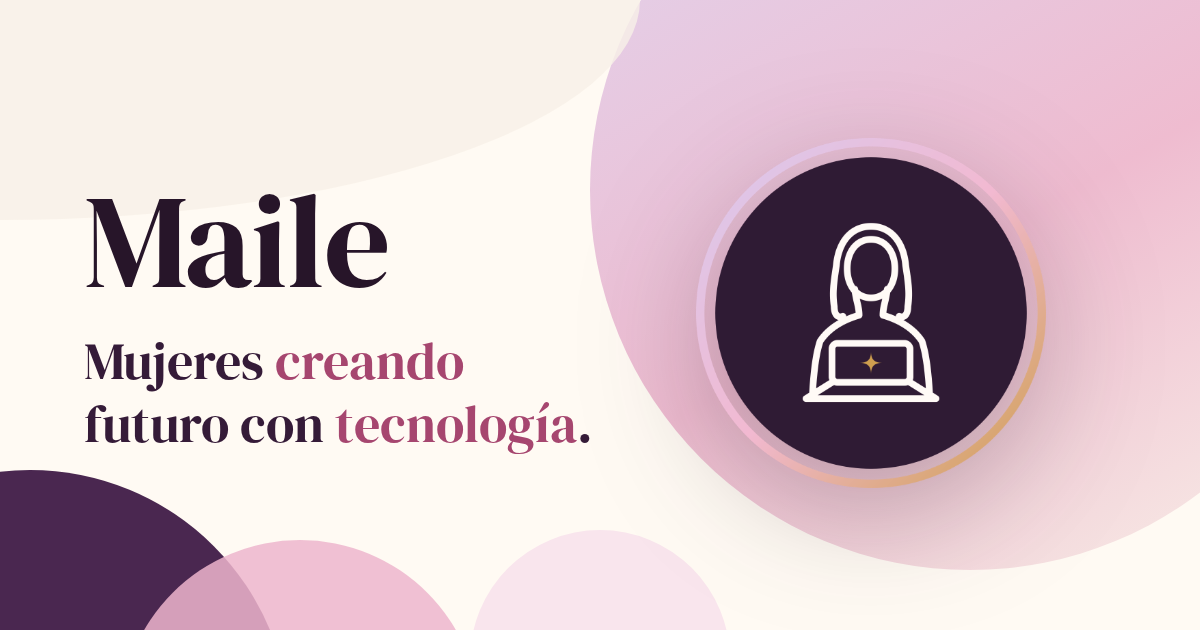
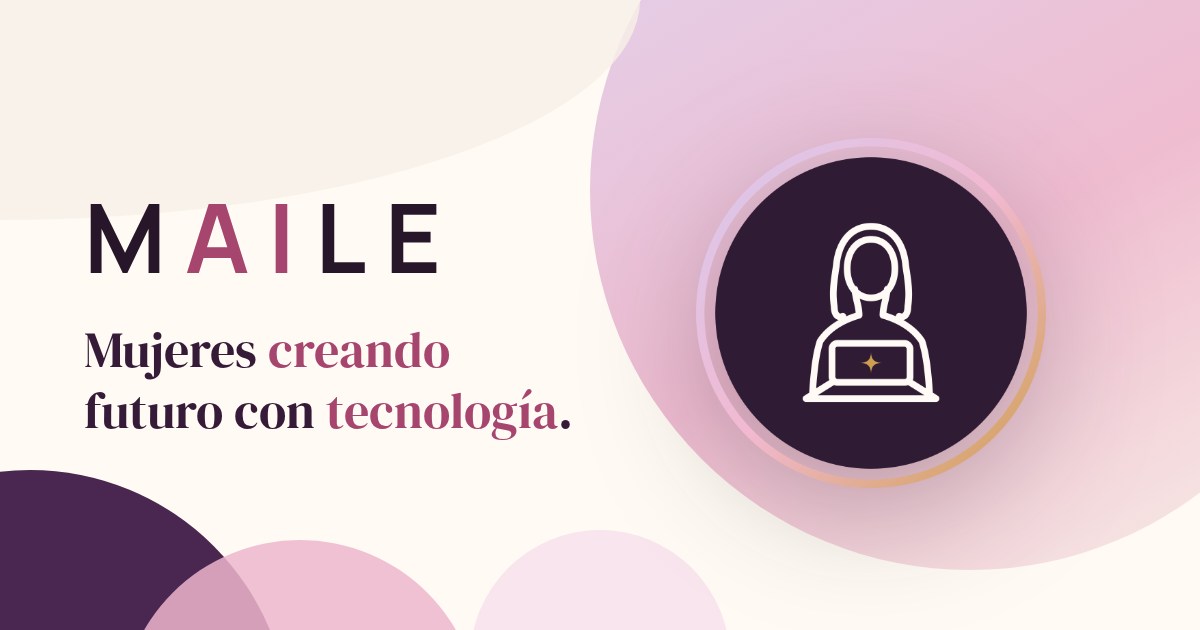
Escribe el nombre como MAILE y parte el logotipo en M-AI-LE
El nombre de la marca es MAILE, en versales, no "Maile". Va así en las seis
páginas: título, metadatos, `aria-label` del logo, encabezado, pie y la tarjeta
social, que se rehizo.

El logotipo además parte el nombre en dos colores, porque el nombre lleva "AI"
adentro y el logo horizontal de la marca lo destaca. El realce sale de
`brand.nameHighlight` en `config.js`, así que es contenido y no una regla escrita
a mano: `script.js` envuelve esa parte en un `span` y `styles.css` le da color.
Solo aplica dentro del logotipo; en el texto corrido del pie el nombre va de una
sola pieza, que es como se lee una firma de copyright.

El logotipo pasa a palo seco muy espaciado, siguiendo el logo horizontal, y pierde
el punto final: el logo de la marca no lo tiene. La serif queda para los títulos.

Claude-Session: https://claude.ai/code/session_014qsDDTwCz9fSikQ2U92sJf

Changed region(s): [[0.0617, 0.5127, 0.4933, 0.7238], [0.0617, 0.3016, 0.37, 0.4524]]

diff --git a/programa-agente-ia.html b/programa-agente-ia.html
@@ -3,12 +3,12 @@
 <head>
   <meta charset="utf-8">
   <meta name="viewport" content="width=device-width, initial-scale=1">
-  <title>Crea tu primer agente con IA | Maile</title>
+  <title>Crea tu primer agente con IA | MAILE</title>
   <meta name="description" content="Taller presencial de 5 horas para mujeres emprendedoras: descubre la necesidad de tu negocio y crea tu primer agente de inteligencia artificial, listo para usar e iterar.">
   <meta name="theme-color" content="#351b38">
   <meta property="og:type" content="website">
   <meta property="og:locale" content="es_CL">
-  <meta property="og:title" content="Crea tu primer agente con IA · El mejor aliado para tu negocio | Maile">
+  <meta property="og:title" content="Crea tu primer agente con IA · El mejor aliado para tu negocio | MAILE">
   <meta property="og:description" content="Taller presencial · 5 horas · Nivel inicial · Resultado: tu primer agente de IA, listo e iterable.">
   <meta property="og:url" content="https://www.maile.cl/programa-agente-ia.html">
   <meta property="og:image" content="https://www.maile.cl/assets/og-social.png">
@@ -27,7 +27,7 @@
   <a class="skip-link" href="#contenido">Saltar al contenido</a>
   <header class="site-header">
     <div class="container nav-shell">
-      <a class="wordmark" href="index.html" aria-label="Maile, ir al inicio"><img class="brand-mark" src="assets/brand/maile-avatar.png" alt="" width="40" height="40" data-brand-mark><span data-brand>Maile<span>.</span></span></a>
+      <a class="wordmark" href="index.html" aria-label="MAILE, ir al inicio"><img class="brand-mark" src="assets/brand/maile-avatar.png" alt="" width="40" height="40" data-brand-mark><span data-brand>M<span class="ai">AI</span>LE</span></a>
       <nav class="desktop-nav" aria-label="Navegación principal"><a href="index.html#programas">Programas</a><a href="index.html#encuentros">Encuentros</a><a href="index.html#proposito">Nosotras</a></nav>
       <div class="nav-actions"><a class="btn btn-primary" href="index.html#contacto">Quiero participar</a><button class="menu-toggle" type="button" aria-expanded="false" aria-controls="mobile-navigation" aria-label="Abrir menú"><span></span></button></div>
     </div>
@@ -128,7 +128,7 @@
     </section>
   </main>
 
-  <footer class="site-footer"><div class="container"><div class="footer-grid"><div class="footer-brand"><a class="wordmark" href="index.html" aria-label="Maile, ir al inicio"><img class="brand-mark" src="assets/brand/maile-avatar.png" alt="" width="40" height="40" data-brand-mark><span data-brand>Maile<span>.</span></span></a><p data-descriptor>Mujeres creando futuro con tecnología.</p></div><div><p class="footer-title">Explora</p><nav class="footer-links"><a href="index.html#proposito">Nosotras</a><a href="index.html#programas">Programas</a><a href="index.html#encuentros">Encuentros</a><a href="index.html#impacto">Impacto</a><a href="index.html#comunidad">Comunidad</a></nav></div><div><p class="footer-title">Participa</p><nav class="footer-links"><a href="index.html#contacto">Quiero participar</a><a href="index.html#red">Profesoras y mentoras</a><a href="organizaciones.html">Para organizaciones</a><a data-email href="mailto:contacto@nombre.cl">contacto@nombre.cl</a></nav></div><div><p class="footer-title">Información</p><nav class="footer-links"><a data-privacy href="privacidad.html">Política de privacidad</a><a data-terms href="terminos.html">Términos</a><span data-socials></span></nav></div></div><div class="footer-bottom"><span>© <span data-year></span> <span data-brand>Maile</span>. Derechos reservados.</span><span>Mujeres creando futuro con tecnología.</span></div></div></footer>
+  <footer class="site-footer"><div class="container"><div class="footer-grid"><div class="footer-brand"><a class="wordmark" href="index.html" aria-label="MAILE, ir al inicio"><img class="brand-mark" src="assets/brand/maile-avatar.png" alt="" width="40" height="40" data-brand-mark><span data-brand>M<span class="ai">AI</span>LE</span></a><p data-descriptor>Mujeres creando futuro con tecnología.</p></div><div><p class="footer-title">Explora</p><nav class="footer-links"><a href="index.html#proposito">Nosotras</a><a href="index.html#programas">Programas</a><a href="index.html#encuentros">Encuentros</a><a href="index.html#impacto">Impacto</a><a href="index.html#comunidad">Comunidad</a></nav></div><div><p class="footer-title">Participa</p><nav class="footer-links"><a href="index.html#contacto">Quiero participar</a><a href="index.html#red">Profesoras y mentoras</a><a href="organizaciones.html">Para organizaciones</a><a data-email href="mailto:contacto@nombre.cl">contacto@nombre.cl</a></nav></div><div><p class="footer-title">Información</p><nav class="footer-links"><a data-privacy href="privacidad.html">Política de privacidad</a><a data-terms href="terminos.html">Términos</a><span data-socials></span></nav></div></div><div class="footer-bottom"><span>© <span data-year></span> <span data-brand>MAILE</span>. Derechos reservados.</span><span>Mujeres creando futuro con tecnología.</span></div></div></footer>
   <script src="config.js"></script>
   <script src="script.js"></script>
   <script src="program.js"></script>

diff --git a/programa-web-ia.html b/programa-web-ia.html
@@ -3,12 +3,12 @@
 <head>
   <meta charset="utf-8">
   <meta name="viewport" content="width=device-width, initial-scale=1">
-  <title>Crea tu primera página web con IA | Maile</title>
+  <title>Crea tu primera página web con IA | MAILE</title>
   <meta name="description" content="Programa práctico presencial de nivel inicial para transformar una idea en una página web funcional con inteligencia artificial y acompañamiento paso a paso.">
   <meta name="theme-color" content="#351b38">
   <meta property="og:type" content="website">
   <meta property="og:locale" content="es_CL">
-  <meta property="og:title" content="Crea tu primera página web con IA | Maile">
+  <meta property="og:title" content="Crea tu primera página web con IA | MAILE">
   <meta property="og:description" content="Programa práctico presencial · Nivel inicial · Resultado: sitio publicado.">
   <meta property="og:url" content="https://www.maile.cl/programa-web-ia.html">
   <meta property="og:image" content="https://www.maile.cl/assets/og-social.png">
@@ -27,7 +27,7 @@
   <a class="skip-link" href="#contenido">Saltar al contenido</a>
   <header class="site-header">
     <div class="container nav-shell">
-      <a class="wordmark" href="index.html" aria-label="Maile, ir al inicio"><img class="brand-mark" src="assets/brand/maile-avatar.png" alt="" width="40" height="40" data-brand-mark><span data-brand>Maile<span>.</span></span></a>
+      <a class="wordmark" href="index.html" aria-label="MAILE, ir al inicio"><img class="brand-mark" src="assets/brand/maile-avatar.png" alt="" width="40" height="40" data-brand-mark><span data-brand>M<span class="ai">AI</span>LE</span></a>
       <nav class="desktop-nav" aria-label="Navegación principal"><a href="index.html#programas">Programas</a><a href="index.html#encuentros">Encuentros</a><a href="index.html#proposito">Nosotras</a></nav>
       <div class="nav-actions"><a class="btn btn-primary" href="index.html#contacto">Quiero participar</a><button class="menu-toggle" type="button" aria-expanded="false" aria-controls="mobile-navigation" aria-label="Abrir menú"><span></span></button></div>
     </div>
@@ -70,7 +70,7 @@
     </section>
   </main>
 
-  <footer class="site-footer"><div class="container"><div class="footer-grid"><div class="footer-brand"><a class="wordmark" href="index.html" aria-label="Maile, ir al inicio"><img class="brand-mark" src="assets/brand/maile-avatar.png" alt="" width="40" height="40" data-brand-mark><span data-brand>Maile<span>.</span></span></a><p data-descriptor>Mujeres creando futuro con tecnología.</p></div><div><p class="footer-title">Explora</p><nav class="footer-links"><a href="index.html#proposito">Nosotras</a><a href="index.html#programas">Programas</a><a href="index.html#encuentros">Encuentros</a><a href="index.html#impacto">Impacto</a><a href="index.html#comunidad">Comunidad</a></nav></div><div><p class="footer-title">Participa</p><nav class="footer-links"><a href="index.html#contacto">Quiero participar</a><a href="index.html#red">Profesoras y mentoras</a><a href="organizaciones.html">Para organizaciones</a><a data-email href="mailto:contacto@nombre.cl">contacto@nombre.cl</a></nav></div><div><p class="footer-title">Información</p><nav class="footer-links"><a data-privacy href="privacidad.html">Política de privacidad</a><a data-terms href="terminos.html">Términos</a><span data-socials></span></nav></div></div><div class="footer-bottom"><span>© <span data-year></span> <span data-brand>Maile</span>. Derechos reservados.</span><span>Mujeres creando futuro con tecnología.</span></div></div></footer>
+  <footer class="site-footer"><div class="container"><div class="footer-grid"><div class="footer-brand"><a class="wordmark" href="index.html" aria-label="MAILE, ir al inicio"><img class="brand-mark" src="assets/brand/maile-avatar.png" alt="" width="40" height="40" data-brand-mark><span data-brand>M<span class="ai">AI</span>LE</span></a><p data-descriptor>Mujeres creando futuro con tecnología.</p></div><div><p class="footer-title">Explora</p><nav class="footer-links"><a href="index.html#proposito">Nosotras</a><a href="index.html#programas">Programas</a><a href="index.html#encuentros">Encuentros</a><a href="index.html#impacto">Impacto</a><a href="index.html#comunidad">Comunidad</a></nav></div><div><p class="footer-title">Participa</p><nav class="footer-links"><a href="index.html#contacto">Quiero participar</a><a href="index.html#red">Profesoras y mentoras</a><a href="organizaciones.html">Para organizaciones</a><a data-email href="mailto:contacto@nombre.cl">contacto@nombre.cl</a></nav></div><div><p class="footer-title">Información</p><nav class="footer-links"><a data-privacy href="privacidad.html">Política de privacidad</a><a data-terms href="terminos.html">Términos</a><span data-socials></span></nav></div></div><div class="footer-bottom"><span>© <span data-year></span> <span data-brand>MAILE</span>. Derechos reservados.</span><span>Mujeres creando futuro con tecnología.</span></div></div></footer>
   <script src="config.js"></script>
   <script src="script.js"></script>
   <script src="program.js"></script>

diff --git a/organizaciones.html b/organizaciones.html
@@ -3,12 +3,12 @@
 <head>
   <meta charset="utf-8">
   <meta name="viewport" content="width=device-width, initial-scale=1">
-  <title>Para organizaciones | Maile</title>
+  <title>Para organizaciones | MAILE</title>
   <meta name="description" content="Programas de formación tecnológica para mujeres, listos para adaptar, implementar y medir en fundaciones, empresas, municipios, instituciones educativas y territorios.">
   <meta name="theme-color" content="#351b38">
   <meta property="og:type" content="website">
   <meta property="og:locale" content="es_CL">
-  <meta property="og:title" content="Para organizaciones | Maile">
+  <meta property="og:title" content="Para organizaciones | MAILE">
   <meta property="og:description" content="Diseñamos, implementamos y medimos programas de tecnología para mujeres, adaptados a cada organización y territorio.">
   <meta property="og:url" content="https://www.maile.cl/organizaciones.html">
   <meta property="og:image" content="https://www.maile.cl/assets/og-social.png">
@@ -27,7 +27,7 @@
   <a class="skip-link" href="#contenido">Saltar al contenido</a>
   <header class="site-header">
     <div class="container nav-shell">
-      <a class="wordmark" href="index.html" aria-label="Maile, ir al inicio"><img class="brand-mark" src="assets/brand/maile-avatar.png" alt="" width="40" height="40" data-brand-mark><span data-brand>Maile<span>.</span></span></a>
+      <a class="wordmark" href="index.html" aria-label="MAILE, ir al inicio"><img class="brand-mark" src="assets/brand/maile-avatar.png" alt="" width="40" height="40" data-brand-mark><span data-brand>M<span class="ai">AI</span>LE</span></a>
       <nav class="desktop-nav" aria-label="Navegación principal"><a href="index.html#programas">Programas</a><a href="index.html#encuentros">Encuentros</a><a href="index.html#proposito">Nosotras</a></nav>
       <div class="nav-actions"><a class="btn btn-primary" href="#form-organizaciones">Conversemos</a><button class="menu-toggle" type="button" aria-expanded="false" aria-controls="mobile-navigation" aria-label="Abrir menú"><span></span></button></div>
     </div>
@@ -112,7 +112,7 @@
     </section>
   </main>
 
-  <footer class="site-footer"><div class="container"><div class="footer-grid"><div class="footer-brand"><a class="wordmark" href="index.html" aria-label="Maile, ir al inicio"><img class="brand-mark" src="assets/brand/maile-avatar.png" alt="" width="40" height="40" data-brand-mark><span data-brand>Maile<span>.</span></span></a><p data-descriptor>Mujeres creando futuro con tecnología.</p></div><div><p class="footer-title">Explora</p><nav class="footer-links"><a href="index.html#proposito">Nosotras</a><a href="index.html#programas">Programas</a><a href="index.html#encuentros">Encuentros</a><a href="index.html#impacto">Impacto</a><a href="index.html#comunidad">Comunidad</a></nav></div><div><p class="footer-title">Participa</p><nav class="footer-links"><a href="index.html#contacto">Quiero participar</a><a href="index.html#red">Profesoras y mentoras</a><a href="organizaciones.html">Para organizaciones</a><a data-email href="mailto:contacto@nombre.cl">contacto@nombre.cl</a></nav></div><div><p class="footer-title">Información</p><nav class="footer-links"><a data-privacy href="privacidad.html">Política de privacidad</a><a data-terms href="terminos.html">Términos</a><span data-socials></span></nav></div></div><div class="footer-bottom"><span>© <span data-year></span> <span data-brand>Maile</span>. Derechos reservados.</span><span>Mujeres creando futuro con tecnología.</span></div></div></footer>
+  <footer class="site-footer"><div class="container"><div class="footer-grid"><div class="footer-brand"><a class="wordmark" href="index.html" aria-label="MAILE, ir al inicio"><img class="brand-mark" src="assets/brand/maile-avatar.png" alt="" width="40" height="40" data-brand-mark><span data-brand>M<span class="ai">AI</span>LE</span></a><p data-descriptor>Mujeres creando futuro con tecnología.</p></div><div><p class="footer-title">Explora</p><nav class="footer-links"><a href="index.html#proposito">Nosotras</a><a href="index.html#programas">Programas</a><a href="index.html#encuentros">Encuentros</a><a href="index.html#impacto">Impacto</a><a href="index.html#comunidad">Comunidad</a></nav></div><div><p class="footer-title">Participa</p><nav class="footer-links"><a href="index.html#contacto">Quiero participar</a><a href="index.html#red">Profesoras y mentoras</a><a href="organizaciones.html">Para organizaciones</a><a data-email href="mailto:contacto@nombre.cl">contacto@nombre.cl</a></nav></div><div><p class="footer-title">Información</p><nav class="footer-links"><a data-privacy href="privacidad.html">Política de privacidad</a><a data-terms href="terminos.html">Términos</a><span data-socials></span></nav></div></div><div class="footer-bottom"><span>© <span data-year></span> <span data-brand>MAILE</span>. Derechos reservados.</span><span>Mujeres creando futuro con tecnología.</span></div></div></footer>
   <script src="config.js"></script>
   <script src="script.js"></script>
 </body>

diff --git a/privacidad.html b/privacidad.html
@@ -2,18 +2,18 @@
 <html lang="es">
 <head>
   <meta charset="utf-8"><meta name="viewport" content="width=device-width, initial-scale=1">
-  <title>Política de privacidad | Maile</title>
-  <meta name="description" content="Información sobre el tratamiento de datos personales en Maile.">
+  <title>Política de privacidad | MAILE</title>
+  <meta name="description" content="Información sobre el tratamiento de datos personales en MAILE.">
   <meta name="robots" content="noindex">
   <link rel="preconnect" href="https://fonts.googleapis.com"><link rel="preconnect" href="https://fonts.gstatic.com" crossorigin><link href="https://fonts.googleapis.com/css2?family=DM+Serif+Display&family=Manrope:wght@400;600;700;800&display=swap" rel="stylesheet"><link rel="icon" href="favicon.ico" sizes="any"><link rel="icon" type="image/svg+xml" href="assets/brand/favicon.svg"><link rel="icon" type="image/png" sizes="32x32" href="assets/brand/favicon-32.png"><link rel="apple-touch-icon" sizes="180x180" href="assets/brand/favicon-180.png"><link rel="stylesheet" href="styles.css">
 </head>
 <body>
   <a class="skip-link" href="#contenido">Saltar al contenido</a>
-  <header class="site-header"><div class="container nav-shell"><a class="wordmark" href="index.html" aria-label="Maile, ir al inicio"><img class="brand-mark" src="assets/brand/maile-avatar.png" alt="" width="40" height="40" data-brand-mark><span data-brand>Maile<span>.</span></span></a><div class="nav-actions"><a class="btn btn-secondary" href="index.html">Volver al inicio</a></div></div></header>
+  <header class="site-header"><div class="container nav-shell"><a class="wordmark" href="index.html" aria-label="MAILE, ir al inicio"><img class="brand-mark" src="assets/brand/maile-avatar.png" alt="" width="40" height="40" data-brand-mark><span data-brand>M<span class="ai">AI</span>LE</span></a><div class="nav-actions"><a class="btn btn-secondary" href="index.html">Volver al inicio</a></div></div></header>
   <main class="section" id="contenido"><article class="container legal-shell"><p class="eyebrow">Información legal</p><h1>Política de privacidad</h1><p>Esta es una versión inicial y deberá revisarse cuando se defina el nombre legal de la iniciativa, sus responsables y las herramientas que procesarán los formularios.</p><h2>Datos que solicitamos</h2><p>Los formularios pueden solicitar nombre, correo, teléfono opcional, ciudad, intereses y, en consultas institucionales, antecedentes de la organización. Solo pedimos información necesaria para responder solicitudes y comunicar próximas actividades.</p><h2>Uso de la información</h2><p>Utilizaremos los datos para responder consultas, gestionar listas de interés, informar convocatorias y diseñar programas acordes a las necesidades expresadas. No venderemos datos personales.</p>
     <h2>Dónde se guardan</h2>
     <p>Los datos enviados desde los formularios se almacenan en una planilla de Google Sheets administrada por el equipo de la iniciativa, a la que solo accede quien gestiona las convocatorias. El envío se realiza mediante Google Apps Script.</p><h2>Conservación y derechos</h2><p>La política definitiva indicará los plazos de conservación, proveedores involucrados y mecanismos para solicitar acceso, rectificación o eliminación de datos.</p><h2>Contacto</h2><p>Para consultas sobre privacidad, escribe a <a data-email href="mailto:contacto@nombre.cl">contacto@nombre.cl</a>.</p></article></main>
-  <footer class="site-footer"><div class="container"><div class="footer-bottom" style="margin-top:0"><span>© <span data-year></span> <span data-brand>Maile</span>.</span><a href="terminos.html">Ver términos</a></div></div></footer>
+  <footer class="site-footer"><div class="container"><div class="footer-bottom" style="margin-top:0"><span>© <span data-year></span> <span data-brand>MAILE</span>.</span><a href="terminos.html">Ver términos</a></div></div></footer>
   <script src="config.js"></script><script src="script.js"></script>
 </body>
 </html>

diff --git a/index.html b/index.html
@@ -3,12 +3,12 @@
 <head>
   <meta charset="utf-8">
   <meta name="viewport" content="width=device-width, initial-scale=1">
-  <title>Maile | Mujeres creando futuro con tecnología</title>
+  <title>MAILE | Mujeres creando futuro con tecnología</title>
   <meta name="description" content="Experiencias prácticas, presenciales y comunitarias que reducen barreras de acceso a la tecnología y abren nuevas oportunidades para mujeres.">
   <meta name="theme-color" content="#351b38">
   <meta property="og:type" content="website">
   <meta property="og:locale" content="es_CL">
-  <meta property="og:title" content="Maile · Mujeres creando futuro con tecnología">
+  <meta property="og:title" content="MAILE · Mujeres creando futuro con tecnología">
   <meta property="og:description" content="Tecnología, comunidad y oportunidades para mujeres, mediante experiencias prácticas y presenciales.">
   <meta property="og:url" content="https://www.maile.cl/">
   <meta property="og:image" content="https://www.maile.cl/assets/og-social.png">
@@ -28,7 +28,7 @@
 
   <header class="site-header">
     <div class="container nav-shell">
-      <a class="wordmark" href="index.html" aria-label="Maile, ir al inicio"><img class="brand-mark" src="assets/brand/maile-avatar.png" alt="" width="40" height="40" data-brand-mark><span data-brand>Maile<span>.</span></span></a>
+      <a class="wordmark" href="index.html" aria-label="MAILE, ir al inicio"><img class="brand-mark" src="assets/brand/maile-avatar.png" alt="" width="40" height="40" data-brand-mark><span data-brand>M<span class="ai">AI</span>LE</span></a>
       <nav class="desktop-nav" aria-label="Navegación principal"><a href="#programas">Programas</a><a href="#encuentros">Encuentros</a><a href="#proposito">Nosotras</a></nav>
       <div class="nav-actions">
         <a class="btn btn-primary" href="#contacto">Quiero participar</a>
@@ -225,12 +225,12 @@
   <footer class="site-footer">
     <div class="container">
       <div class="footer-grid">
-        <div class="footer-brand"><a class="wordmark" href="index.html" aria-label="Maile, ir al inicio"><img class="brand-mark" src="assets/brand/maile-avatar.png" alt="" width="40" height="40" data-brand-mark><span data-brand>Maile<span>.</span></span></a><p data-descriptor>Mujeres creando futuro con tecnología.</p></div>
+        <div class="footer-brand"><a class="wordmark" href="index.html" aria-label="MAILE, ir al inicio"><img class="brand-mark" src="assets/brand/maile-avatar.png" alt="" width="40" height="40" data-brand-mark><span data-brand>M<span class="ai">AI</span>LE</span></a><p data-descriptor>Mujeres creando futuro con tecnología.</p></div>
         <div><p class="footer-title">Explora</p><nav class="footer-links"><a href="#proposito">Nosotras</a><a href="#programas">Programas</a><a href="#encuentros">Encuentros</a><a href="#impacto">Impacto</a><a href="#comunidad">Comunidad</a></nav></div>
         <div><p class="footer-title">Participa</p><nav class="footer-links"><a href="#contacto">Quiero participar</a><a href="#red">Profesoras y mentoras</a><a href="organizaciones.html">Para organizaciones</a><a data-email href="mailto:contacto@nombre.cl">contacto@nombre.cl</a></nav></div>
         <div><p class="footer-title">Información</p><nav class="footer-links"><a data-privacy href="privacidad.html">Política de privacidad</a><a data-terms href="terminos.html">Términos</a><span data-socials></span></nav></div>
       </div>
-      <div class="footer-bottom"><span>© <span data-year></span> <span data-brand>Maile</span>. Derechos reservados.</span><span>Creado para aprender, hacer y avanzar juntas.</span></div>
+      <div class="footer-bottom"><span>© <span data-year></span> <span data-brand>MAILE</span>. Derechos reservados.</span><span>Creado para aprender, hacer y avanzar juntas.</span></div>
     </div>
   </footer>
 

diff --git a/terminos.html b/terminos.html
@@ -2,16 +2,16 @@
 <html lang="es">
 <head>
   <meta charset="utf-8"><meta name="viewport" content="width=device-width, initial-scale=1">
-  <title>Términos | Maile</title>
-  <meta name="description" content="Términos generales de participación y uso del sitio de Maile.">
+  <title>Términos | MAILE</title>
+  <meta name="description" content="Términos generales de participación y uso del sitio de MAILE.">
   <meta name="robots" content="noindex">
   <link rel="preconnect" href="https://fonts.googleapis.com"><link rel="preconnect" href="https://fonts.gstatic.com" crossorigin><link href="https://fonts.googleapis.com/css2?family=DM+Serif+Display&family=Manrope:wght@400;600;700;800&display=swap" rel="stylesheet"><link rel="icon" href="favicon.ico" sizes="any"><link rel="icon" type="image/svg+xml" href="assets/brand/favicon.svg"><link rel="icon" type="image/png" sizes="32x32" href="assets/brand/favicon-32.png"><link rel="apple-touch-icon" sizes="180x180" href="assets/brand/favicon-180.png"><link rel="stylesheet" href="styles.css">
 </head>
 <body>
   <a class="skip-link" href="#contenido">Saltar al contenido</a>
-  <header class="site-header"><div class="container nav-shell"><a class="wordmark" href="index.html" aria-label="Maile, ir al inicio"><img class="brand-mark" src="assets/brand/maile-avatar.png" alt="" width="40" height="40" data-brand-mark><span data-brand>Maile<span>.</span></span></a><div class="nav-actions"><a class="btn btn-secondary" href="index.html">Volver al inicio</a></div></div></header>
+  <header class="site-header"><div class="container nav-shell"><a class="wordmark" href="index.html" aria-label="MAILE, ir al inicio"><img class="brand-mark" src="assets/brand/maile-avatar.png" alt="" width="40" height="40" data-brand-mark><span data-brand>M<span class="ai">AI</span>LE</span></a><div class="nav-actions"><a class="btn btn-secondary" href="index.html">Volver al inicio</a></div></div></header>
   <main class="section" id="contenido"><article class="container legal-shell"><p class="eyebrow">Información legal</p><h1>Términos generales</h1><p>Este texto es una base informativa y deberá actualizarse cuando se defina formalmente la iniciativa y las condiciones de sus programas.</p><h2>Información del sitio</h2><p>Los programas, fechas, cupos, costos y requisitos publicados pueden actualizarse. Las condiciones definitivas se comunicarán de forma clara antes de confirmar una participación.</p><h2>Inscripciones y listas de interés</h2><p>Enviar un formulario no garantiza un cupo. Cuando exista una convocatoria, informaremos sus condiciones, proceso de inscripción y forma de confirmación.</p><h2>Programas para organizaciones</h2><p>Las propuestas institucionales se definen según el contexto, alcance y necesidades de cada organización. Cualquier compromiso se formalizará por separado.</p><h2>Propiedad intelectual</h2><p>Los contenidos y materiales de cada experiencia indicarán sus condiciones de uso. Las participantes conservan la autoría y responsabilidad sobre sus propios proyectos.</p><h2>Contacto</h2><p>Para consultas, escribe a <a data-email href="mailto:contacto@nombre.cl">contacto@nombre.cl</a>.</p></article></main>
-  <footer class="site-footer"><div class="container"><div class="footer-bottom" style="margin-top:0"><span>© <span data-year></span> <span data-brand>Maile</span>.</span><a href="privacidad.html">Ver política de privacidad</a></div></div></footer>
+  <footer class="site-footer"><div class="container"><div class="footer-bottom" style="margin-top:0"><span>© <span data-year></span> <span data-brand>MAILE</span>.</span><a href="privacidad.html">Ver política de privacidad</a></div></div></footer>
   <script src="config.js"></script><script src="script.js"></script>
 </body>
 </html>

diff --git a/styles.css b/styles.css
@@ -124,9 +124,10 @@ p { margin: 0; }
   backdrop-filter: blur(16px);
 }
 .nav-shell { display: flex; min-height: 78px; align-items: center; gap: 22px; }
-.wordmark { display: inline-flex; flex: 0 0 auto; gap: 12px; align-items: center; color: var(--plum-950); font-family: var(--serif); font-size: 1.45rem; letter-spacing: .1em; text-transform: uppercase; text-decoration: none; }
+/* El logotipo sigue al logo de la marca: versales de palo seco, muy espaciadas, con "AI" en otro color. */
+.wordmark { display: inline-flex; flex: 0 0 auto; gap: 12px; align-items: center; color: var(--plum-950); font-family: var(--sans); font-size: 1.2rem; font-weight: 600; letter-spacing: .22em; text-decoration: none; }
 .brand-mark { width: 40px; height: 40px; flex: 0 0 auto; }
-.wordmark [data-brand] > span { color: var(--rose-700); }
+.wordmark .ai { color: var(--rose-700); }
 .desktop-nav { display: flex; flex: 1; align-items: center; justify-content: center; gap: 18px; }
 .desktop-nav a { color: var(--muted); text-decoration: none; font-size: .77rem; font-weight: 700; }
 .desktop-nav a:hover { color: var(--plum-950); }
@@ -298,6 +299,7 @@ p { margin: 0; }
 .site-footer { padding: 64px 0 24px; color: rgba(255,255,255,.72); background: #1d101e; }
 .footer-grid { display: grid; grid-template-columns: 1.4fr 1fr 1fr 1fr; gap: 50px; }
 .footer-brand .wordmark { margin-bottom: 12px; color: var(--white); }
+.footer-brand .wordmark .ai { color: var(--rose-300); }
 .footer-brand p { max-width: 290px; }
 .footer-title { margin-bottom: 14px; color: var(--gold-light); font-size: .7rem; font-weight: 800; letter-spacing: .12em; text-transform: uppercase; }
 .footer-links { display: grid; gap: 8px; }
@@ -391,7 +393,7 @@ p { margin: 0; }
   .section { padding: 72px 0; }
   .nav-shell { min-height: 70px; }
   .mobile-nav { inset-block-start: 70px; }
-  .wordmark { gap: 10px; font-size: 1.22rem; }
+  .wordmark { gap: 10px; font-size: 1.05rem; letter-spacing: .18em; }
   .brand-mark { width: 34px; height: 34px; }
   .nav-actions > .btn { display: none; }
   .hero { padding: 44px 0 32px; }

diff --git a/script.js b/script.js
@@ -23,9 +23,15 @@
     if (ogUrl) ogUrl.content = `${brand.siteUrl}${location.pathname === "/" ? "/" : location.pathname}`;
     const ogImage = document.querySelector('meta[property="og:image"]');
     if (ogImage) ogImage.content = `${brand.siteUrl}/assets/og-social.png`;
+    // El logotipo destaca "AI" dentro del nombre: M-AI-LE. En el texto corrido,
+    // en cambio, el nombre va de una sola pieza.
+    const nombre = escapeHTML(brand.name);
+    const realce = escapeHTML(brand.nameHighlight || "");
+    const logotipo = realce && nombre.includes(realce)
+      ? nombre.replace(realce, `<span class="ai">${realce}</span>`)
+      : nombre;
     document.querySelectorAll("[data-brand]").forEach((element) => {
-      const dot = element.querySelector("span") ? "<span>.</span>" : "";
-      element.innerHTML = `${escapeHTML(brand.name)}${dot}`;
+      element.innerHTML = element.closest(".wordmark") ? logotipo : nombre;
     });
     if (brand.logo) {
       document.querySelectorAll("[data-brand-mark]").forEach((element) => { element.src = brand.logo; });

diff --git a/config.js b/config.js
@@ -5,7 +5,9 @@
  */
 window.SITE_CONTENT = {
   brand: {
-    name: "Maile",
+    name: "MAILE",
+    // "AI" del logotipo va en otro color; vacío deja el nombre de una sola pieza.
+    nameHighlight: "AI",
     logo: "assets/brand/maile-avatar.png",
     descriptor: "Mujeres creando futuro con tecnología.",
     email: "contacto@nombre.cl",

diff --git a/README.md b/README.md
@@ -6,8 +6,9 @@ Sitio institucional estático para una iniciativa de acceso a tecnología dirigi
 
 Todo el contenido que cambiará con frecuencia vive en `config.js`:
 
-- `brand`: nombre, isotipo (`logo`), descriptor, correo, URL pública y enlaces
-  principales. Ojo: el nombre y la URL también están en el HTML (ver «Marca»);
+- `brand`: nombre, realce del logotipo (`nameHighlight`), isotipo (`logo`),
+  descriptor, correo, URL pública y enlaces principales. Ojo: el nombre y la URL
+  también están en el HTML (ver «Marca»);
 - `forms.endpoint`: URL donde se envían los formularios (ver más abajo);
 - `programs`: programas, requisitos, estados, fechas, valores y contenido del detalle.
   Un programa con `statusKey: "preparing"` sigue apareciendo en la grilla, pero no
@@ -118,9 +119,17 @@ mismo pasa con `brand.siteUrl`, que alimenta la URL canónica y la de `og:`.
 **Si cambia el nombre o el dominio, hay que cambiarlo en los dos lados**: en el HTML
 de las seis páginas y en `config.js`.
 
-El logotipo va en versales —MAILE.— como el logo horizontal de la marca. El nombre se
-escribe normal, "Maile", en títulos, textos y metadatos; las versales son cosa del
-logotipo y las pone `styles.css`, no el contenido.
+El nombre se escribe MAILE, en versales, siempre: en el logotipo, en los títulos, en
+los metadatos y en el texto corrido.
+
+El logotipo además parte el nombre en dos colores, M**AI**LE, porque el nombre lleva
+"AI" adentro. Ese realce sale de `brand.nameHighlight` en `config.js`: `script.js`
+envuelve esa parte del nombre en un `<span class="ai">` y `styles.css` le da color,
+pero solo dentro de `.wordmark` —en el texto corrido del pie el nombre va de una sola
+pieza—. Dejar `nameHighlight` vacío devuelve el nombre entero de un color.
+
+El logotipo del encabezado y el pie es de palo seco, muy espaciado, siguiendo el logo
+horizontal de la marca; la serif del sitio queda para los títulos.
 
 En `assets/brand` viven los archivos originales de la marca, y son dos dibujos
 distintos con oficios distintos:
